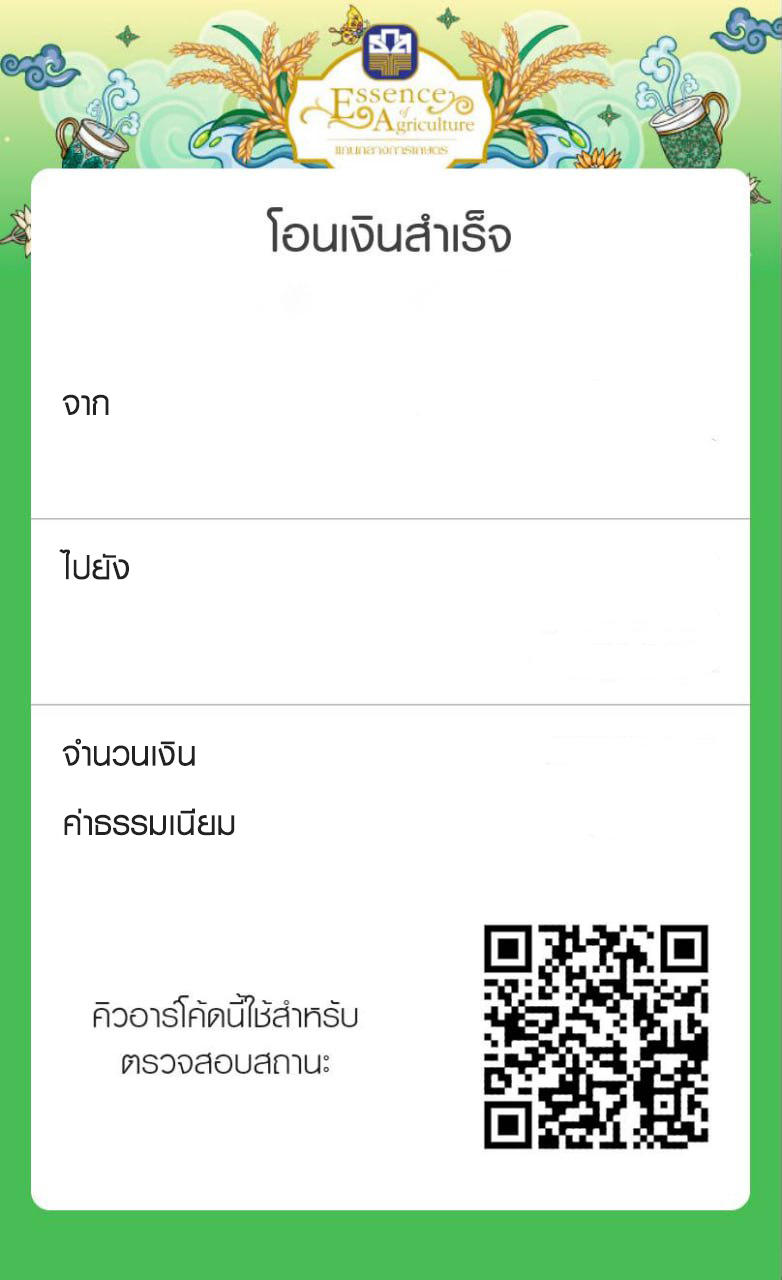
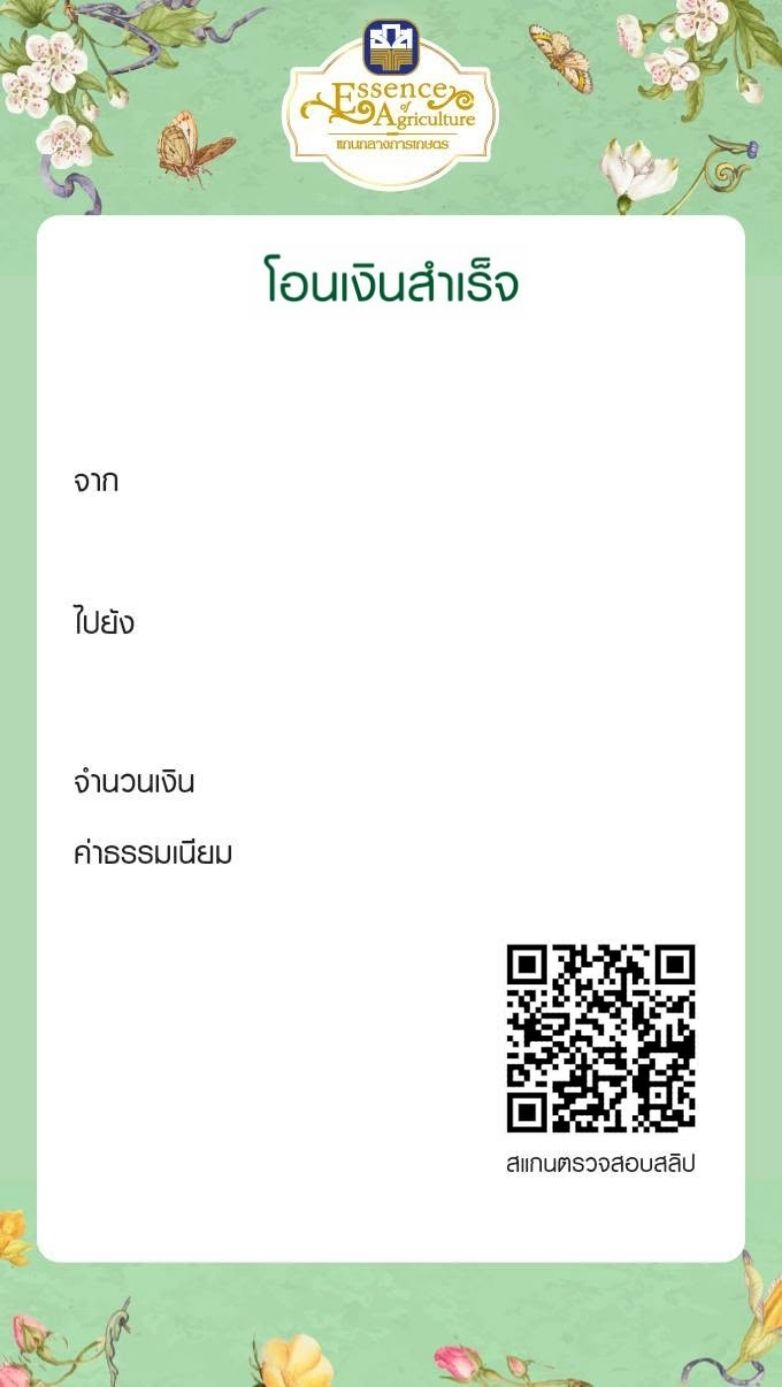
อัพเดต ธกส

diff --git a/js/banks/slip_baac.js b/js/banks/slip_baac.js
@@ -197,7 +197,7 @@
         const ctx = canvas.getContext('2d');
         
         canvas.width = 782;
-        canvas.height = 1280;
+        canvas.height = 1387;
 
         const backgroundImageSrc = isNoteMode ? 'assets/image/bs/A3T.jpg' : 'assets/image/bs/A3.jpg';
 
@@ -216,33 +216,39 @@
         }
 
         if (isNoteMode) {
-            drawText(ctx, `${formattedDate}  ${formattedTime}`, 391, 296.3, 39, 'BaacBold', '#4a4a4a', 'center', 50, 3, 0, 0, 800, 0);
-            drawText(ctx, `รหัสทำรายการ  ${generateUniqueID()}`, 391, 334.8, 39, 'BaacBold', '#4a4a4a', 'center', 50, 3, 0, 0, 800, 0);
+            drawText(ctx, `${formattedDate}  ${formattedTime}`, 391, 345, 38, 'BaacBold', '#4a4a4a', 'center', 50, 3, 0, 0, 800, 0);
+            drawText(ctx, `รหัสทำรายการ  ${generateUniqueID()}`, 391, 380, 38, 'BaacBold', '#4a4a4a', 'center', 50, 3, 0, 0, 800, 0);
 
-            drawText(ctx, `${sendername}`, 718.2, 415, 50, 'BaacBold', '#000000', 'right', 50, 3, 0, 0, 800, -0.50);
-            drawText(ctx, `${senderaccount}`, 718.2, 463.3, 50, 'BaacBold', '#000000', 'right', 50, 1, 0, 0, 800, -0.50);
+            drawText(ctx, `${sendername}`, 718, 490, 45, 'BaacBold', '#4a4a4a', 'right', 50, 3, 0, 0, 800, -0.50);
+            drawText(ctx, `${senderaccount}`, 718, 535, 29, 'Arial', '#252525', 'right', 50, 1, 0, 0, 800, -0.50);
             
-            drawText(ctx, `${bank}`, 718.2, 579, 50, 'BaacBold', '#000000', 'right', 50, 2, 0, 0, 800, 0);
-            drawText(ctx, `${receivername}`, 718.2, 626.5, 50, 'BaacBold', '#000000', 'right', 50, 3, 0, 0, 800, -0.50);
-            drawText(ctx, `${receiveraccount}`, 718.2, 672.2, 50, 'BaacBold', '#000000', 'right', 50, 1, 0, 0, 800, -0.50);
+            drawText(ctx, `${bank}`, 718, 633, 45, 'BaacBold', '#252525', 'right', 50, 2, 0, 0, 800, 0);
+            drawText(ctx, `${receivername}`, 718, 678, 45, 'BaacBold', '#252525', 'right', 50, 3, 0, 0, 800, -0.50);
+            drawText(ctx, `${receiveraccount}`, 718, 723, 29, 'Arial', '#252525', 'right', 50, 1, 0, 0, 800, -0.50);
             
-            drawText(ctx, `${AideMemoire}`, 718.2, 745, 50, 'BaacBold', '#000000', 'right', 50, 1, 0, 0, 800, -0.50);
+            drawText(ctx, `${AideMemoire}`, 718, 793, 45, 'BaacBold', '#252525', 'right', 50, 1, 0, 0, 800, -0.50);
 
-            drawText(ctx, `${amount11} บาท`, 718.2, 835, 50, 'BaacBold', '#000000', 'right', 50, 3, 0, 0, 800, 0);
-            drawText(ctx, `0.00 บาท`, 718.2, 906.4, 50, 'BaacBold', '#000000', 'right', 50, 3, 0, 0, 800, 0);
+            drawText(ctx, `บาท`, 718, 863, 45, 'BaacBold', '#000000', 'right', 50, 3, 0, 0, 800, 0);
+
+            drawText(ctx, `${amount11}`, 665, 863, 30, 'Arial', '#000000', 'right', 50, 3, 0, 0, 800, 0);
+            drawText(ctx, `${amount11}`, 665.5, 863, 30, 'Arial', '#000000', 'right', 50, 3, 0, 0, 800, 0); // ซ้อนเหลื่อมให้ตัวเลขหนาขึ้น // วาดซ้ำเหลื่อมกัน 0.5px เพื่อเพิ่มความหนา
+            drawText(ctx, `0.00 บาท`, 718, 935, 45, 'BaacBold', '#252525', 'right', 50, 3, 0, 0, 800, 0);
         } else {
-            drawText(ctx, `${formattedDate}  ${formattedTime}`, 391, 296.3, 39, 'BaacBold', '#4a4a4a', 'center', 50, 3, 0, 0, 800, 0);
-            drawText(ctx, `รหัสทำรายการ  ${generateUniqueID()}`, 391, 334.8, 39, 'BaacBold', '#4a4a4a', 'center', 50, 3, 0, 0, 800, 0);
+            drawText(ctx, `${formattedDate}  ${formattedTime}`, 391, 345, 38, 'BaacBold', '#4a4a4a', 'center', 50, 3, 0, 0, 800, 0);
+            drawText(ctx, `รหัสทำรายการ  ${generateUniqueID()}`, 391, 380, 38, 'BaacBold', '#4a4a4a', 'center', 50, 3, 0, 0, 800, 0);
 
-            drawText(ctx, `${sendername}`, 718.2, 414.5, 50, 'BaacBold', '#000000', 'right', 50, 3, 0, 0, 800, -0.50);
-            drawText(ctx, `${senderaccount}`, 718.2, 463.3, 50, 'BaacBold', '#000000', 'right', 50, 1, 0, 0, 800, -0.50);
+            drawText(ctx, `${sendername}`, 718, 490, 45, 'BaacBold', '#252525', 'right', 50, 3, 0, 0, 800, -0.50);
+            drawText(ctx, `${senderaccount}`, 718, 535, 29, 'Arial', '#252525', 'right', 50, 1, 0, 0, 800, -0.50);
             
-            drawText(ctx, `${bank}`, 718.2, 579, 50, 'BaacBold', '#000000', 'right', 50, 2, 0, 0, 800, 0);
-            drawText(ctx, `${receivername}`, 718.2, 626.5, 50, 'BaacBold', '#000000', 'right', 50, 3, 0, 0, 800, -0.50);
-            drawText(ctx, `${receiveraccount}`, 718.2, 672.2, 50, 'BaacBold', '#000000', 'right', 50, 1, 0, 0, 800, -0.50);
+            drawText(ctx, `${bank}`, 718, 633, 45, 'BaacBold', '#252525', 'right', 50, 2, 0, 0, 800, 0);
+            drawText(ctx, `${receivername}`, 718, 678, 45, 'BaacBold', '#252525', 'right', 50, 3, 0, 0, 800, -0.50);
+            drawText(ctx, `${receiveraccount}`, 718, 723, 29, 'Arial', '#252525', 'right', 50, 1, 0, 0, 800, -0.50);
             
-            drawText(ctx, `${amount11} บาท`, 718.2, 765.6, 50, 'BaacBold', '#000000', 'right', 50, 3, 0, 0, 800, 0);
-            drawText(ctx, `0.00 บาท`, 718.2, 835, 50, 'BaacBold', '#000000', 'right', 50, 3, 0, 0, 800, 0);
+            drawText(ctx, `บาท`, 718, 792, 45, 'BaacBold', '#000000', 'right', 50, 3, 0, 0, 800, 0);
+
+            drawText(ctx, `${amount11}`, 665, 792, 30, 'Arial', '#000000', 'right', 50, 3, 0, 0, 800, 0);
+            drawText(ctx, `${amount11}`, 665.5, 792, 30, 'Arial', '#000000', 'right', 50, 3, 0, 0, 800, 0); // ซ้อนเหลื่อมให้ตัวเลขหนาขึ้น
+            drawText(ctx, `0.00 บาท`, 718, 864, 45, 'BaacBold', '#252525', 'right', 50, 3, 0, 0, 800, 0);
         }
 
         if (QRCode) {

diff --git a/slip_kbanknew.html b/slip_kbanknew.html
@@ -337,6 +337,7 @@
                                 <option value="assets/image/bs/N-K61newT.jpg">สงกรานต์</option>
                                 <option value="assets/image/bs/N-K66newT.jpg">กูเม่ & พาร์เฟ่ต์โชคดีตลอดปี</option>
                                 <option value="assets/image/bs/N-K67newT.jpg">ชมพูแสนหวาน</option>
+                                <option value="assets/image/bs/N-K68newT.jpg">POP MART</option>
                             </select>
                         </div>
                     </div>
@@ -488,6 +489,7 @@
                                 <option value="assets/image/bs/N-K61new.jpg">สงกรานต์</option>
                                 <option value="assets/image/bs/N-K66new.jpg">กูเม่ & พาร์เฟ่ต์โชคดีตลอดปี</option>
                                 <option value="assets/image/bs/N-K67new.jpg">ชมพูแสนหวาน</option>
+                                <option value="assets/image/bs/N-K68new.jpg">POP MART</option>
                         </select>
                     </div>
                     <div class="col-12">
